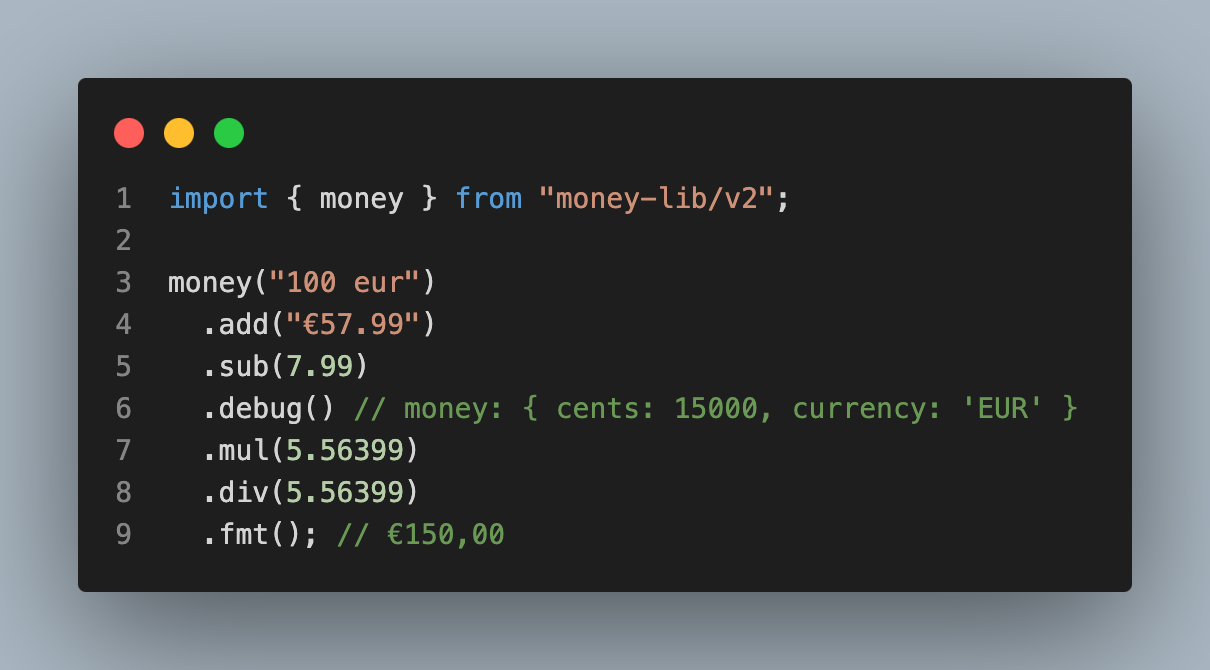
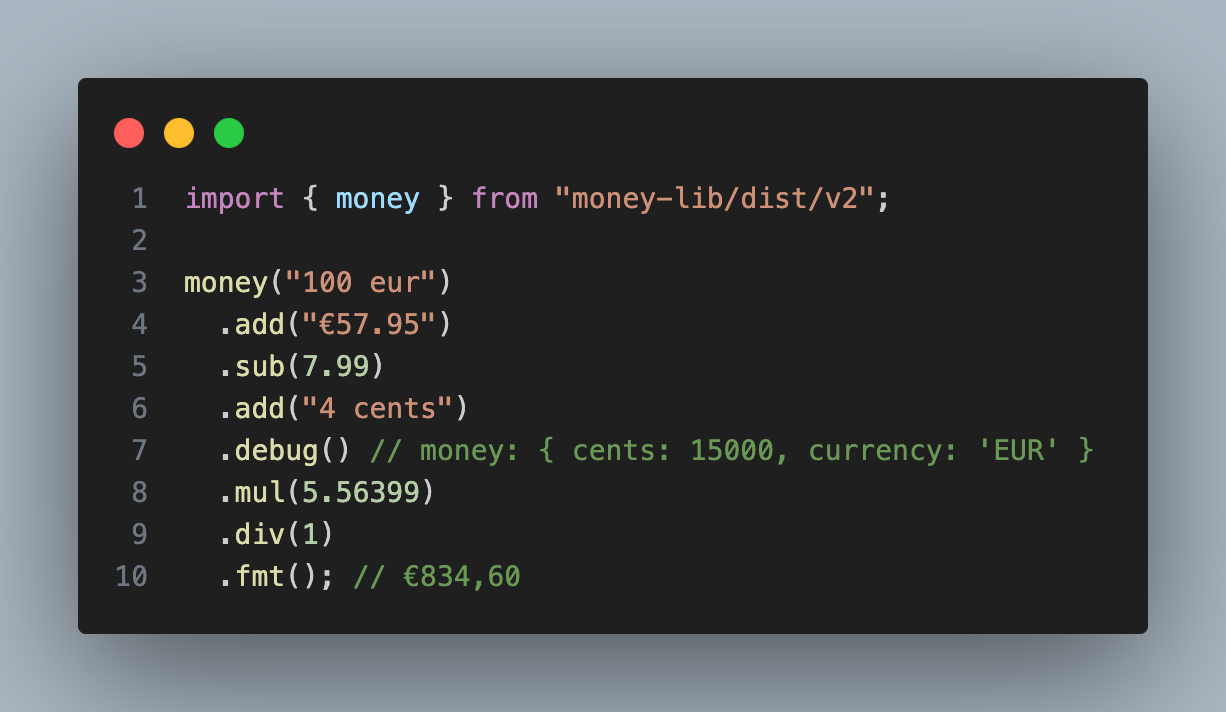
Update examples

diff --git a/lib/chain.ts b/lib/chain.ts
@@ -41,7 +41,7 @@ const unwrap = (m: Money | ChainedMoney): Money => {
 
 /**
  * @deprecated Use V2
- * @example import { money } from "money-lib/v2"
+ * @example import { money } from "money-lib/dist/v2"
  */
 const moneyChain = (money: Money | ChainedMoney = zero()): ChainedMoney => {
   const _m = unwrap(money);

diff --git a/test/helpers.test.ts b/test/helpers.test.ts
@@ -107,6 +107,11 @@ describe("helpers", () => {
       currency: "EUR",
     });
 
+    expect(parseMoneyInput("1042 cents eur")).toEqual({
+      amount: 1042,
+      currency: "EUR",
+    });
+
     expect(parseMoneyInput(`${1042}cents`)).toEqual({
       amount: 1042,
       currency: "EUR",
